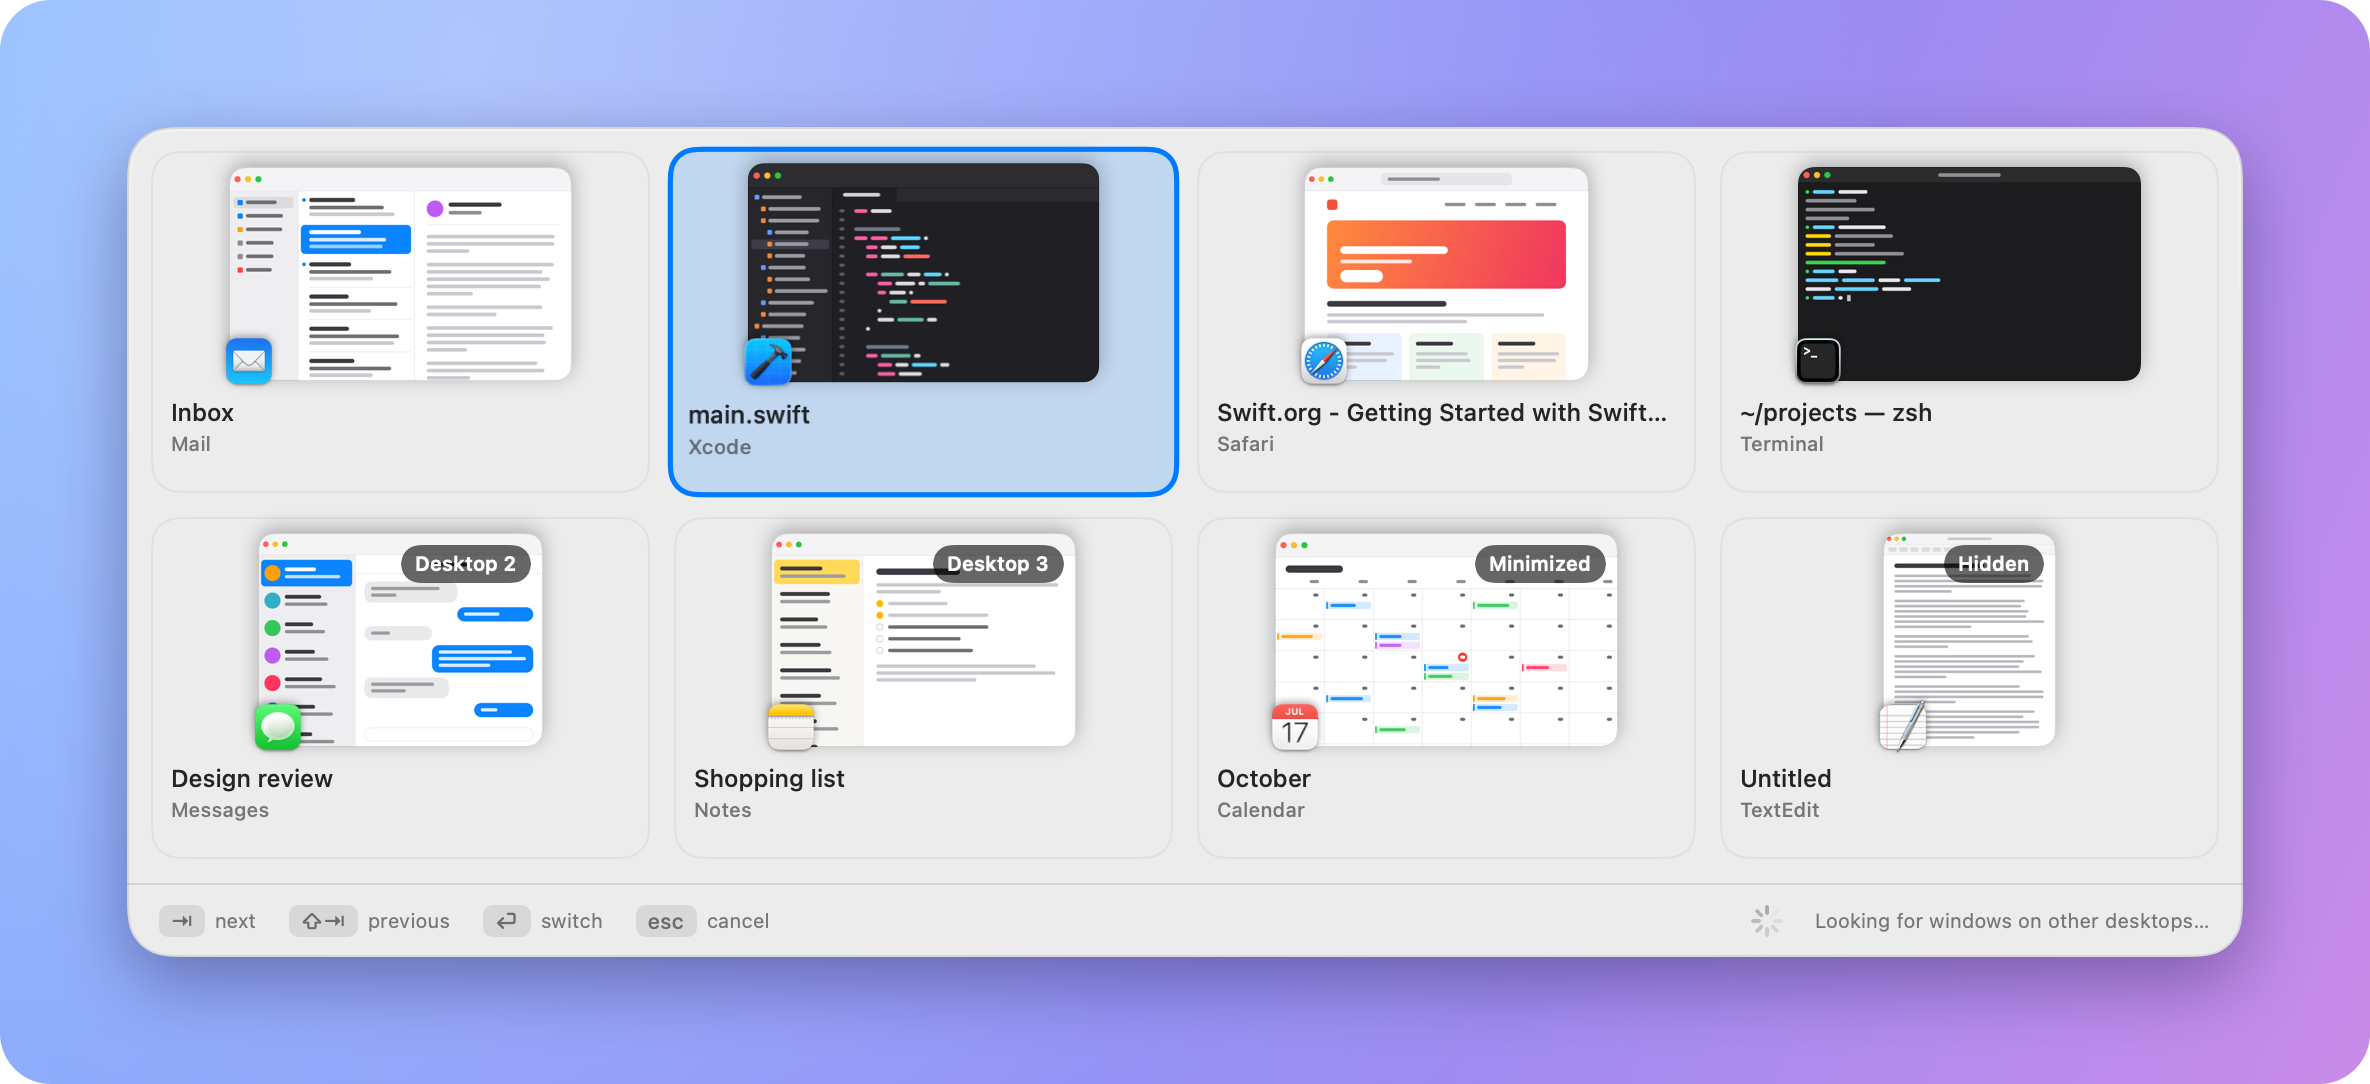
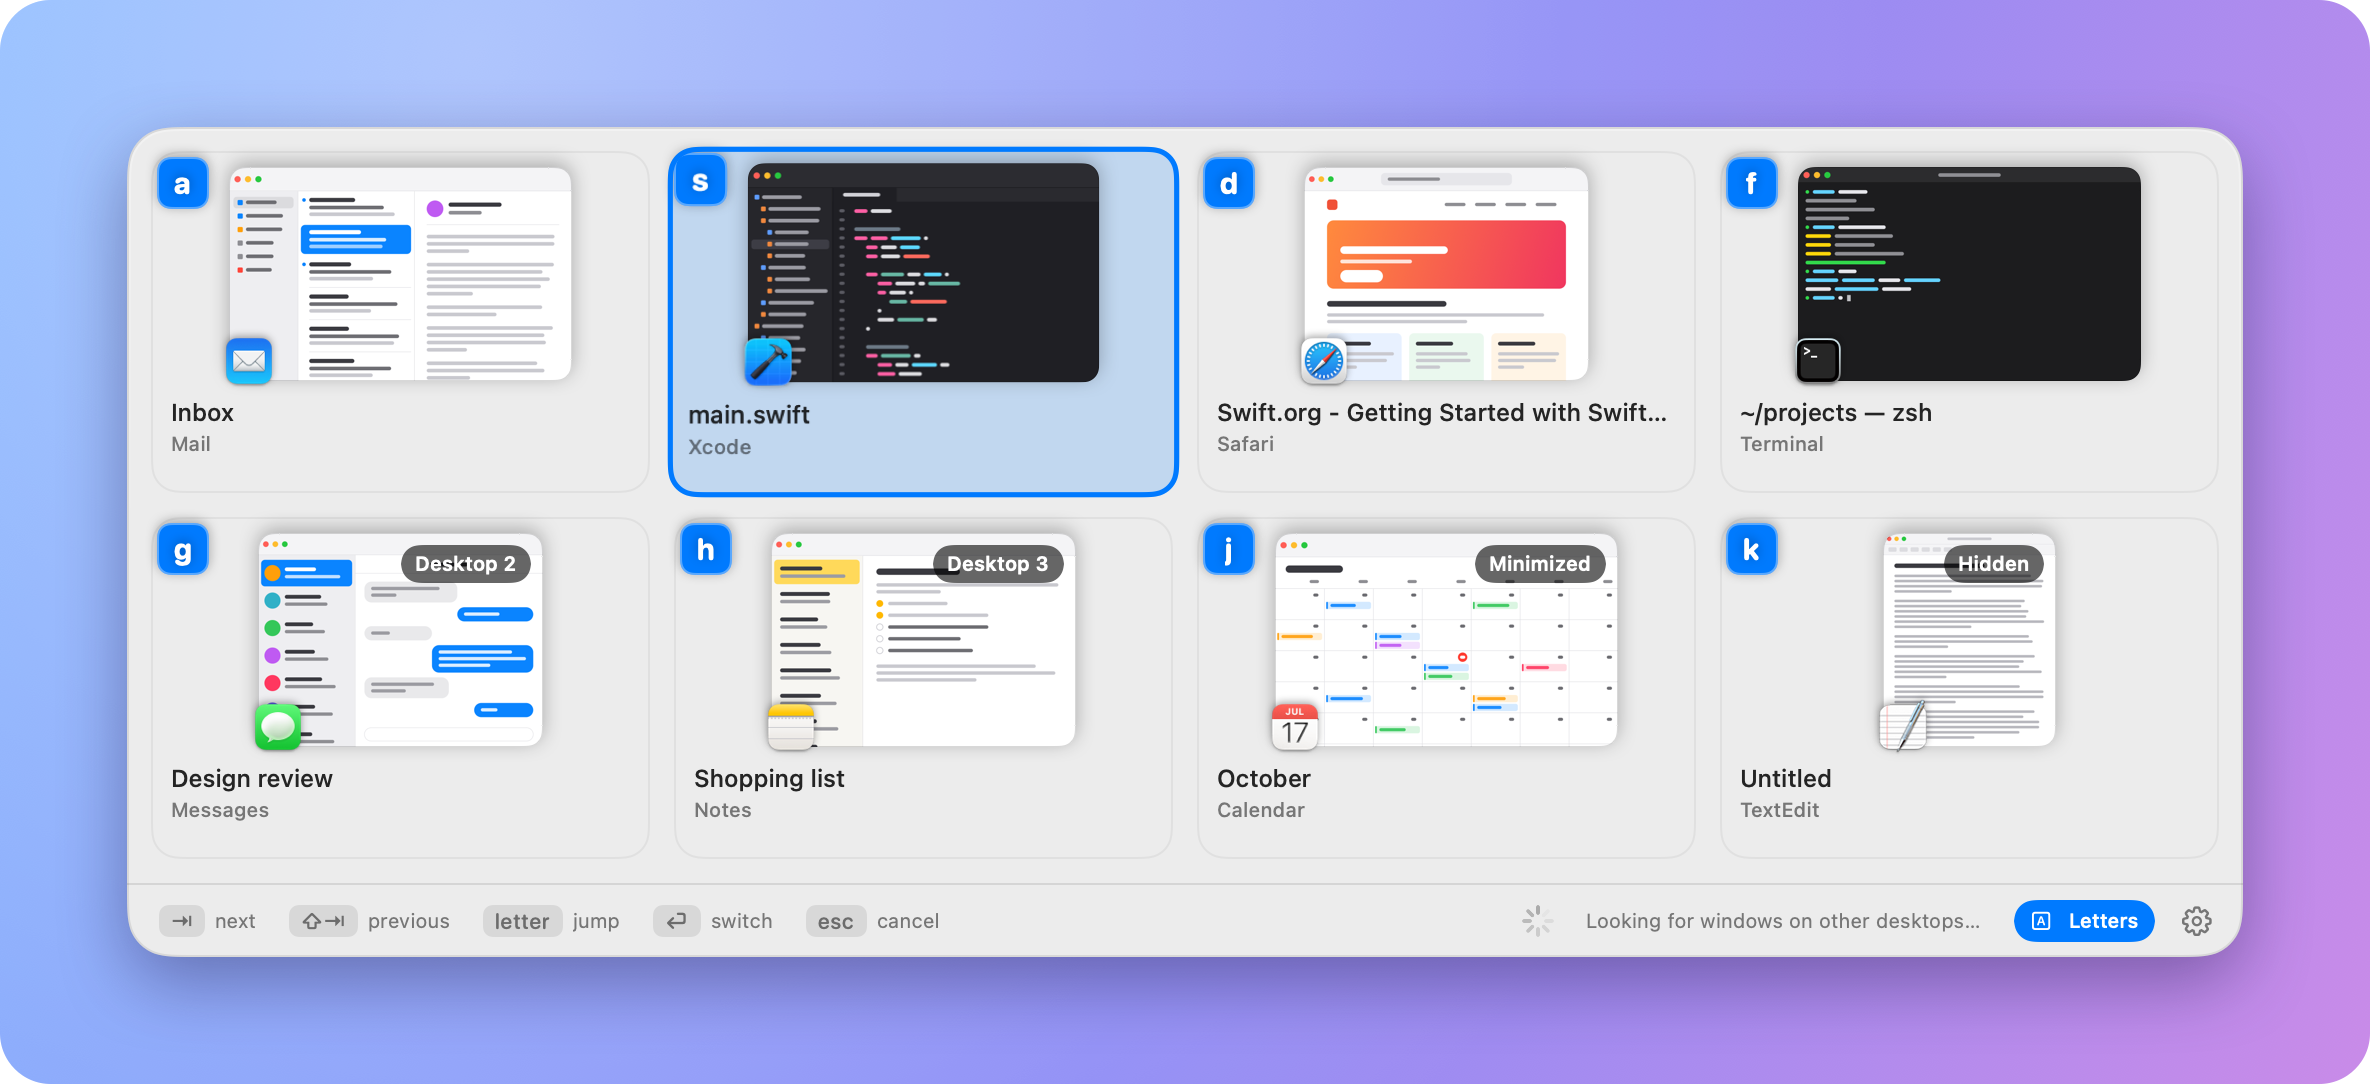
Show Bento in the README and the screenshots
The app is now called Bento and the cask is bento. The screenshots show
the new name, the new icon, and Letters on both switchers.

diff --git a/README.md b/README.md
@@ -1,8 +1,9 @@
-# Oh my windows
+# Bento
 
 A macOS menu bar app that saves groups of windows as **workspaces** and brings a whole workspace forward in one
 step: each window goes back to its position and size, and only those windows are raised, even when an app has many
 others open. It also has an AltTab-style **window switcher** (⌥Tab) for jumping to any window on any desktop.
+Up to 0.2.0 it was called Oh my windows. Updating keeps your workspaces, settings and permissions.
 
 ![The quick switcher: workspaces on top, then every open window](screenshots/quick-switcher.png)
 
@@ -11,10 +12,10 @@ This repository holds the releases only.
 ## Install
 
 ```sh
-brew install --cask tuanchauict/tap/oh-my-windows
+brew install --cask tuanchauict/tap/bento
 ```
 
-Or download the zip from [Releases](../../releases), unzip it and move **Oh my windows.app** to Applications.
+Or download the zip from [Releases](../../releases), unzip it and move **Bento.app** to Applications.
 Needs macOS 14 or later. Builds are signed and notarized, and run on Apple silicon and Intel.
 
 ## Permissions
@@ -35,8 +36,8 @@ Hold ⌥ and press Tab for the window switcher, Tab again to move on, and let go
 window. It lists the windows of every desktop, most recently used first, and marks the ones on another desktop,
 minimized or hidden.
 
-Turn on **Vim mode** in the General settings and every card gets a letter: type it to switch, like Vimium's link
-hints. The quick switcher then opens on the letters, with / to search.
+Click **Letters** on either switcher and every card gets a letter: type it to switch. The quick switcher then opens
+on the letters, with / to search. The gear on the switchers opens their settings.
 
 ![The window switcher](screenshots/window-switcher.png)
 
@@ -49,6 +50,6 @@ private macOS calls as AltTab and yabai do.
 ## Update and uninstall
 
 ```sh
-brew upgrade --cask oh-my-windows
-brew uninstall --cask oh-my-windows          # add --zap to also remove saved workspaces and caches
+brew upgrade --cask bento
+brew uninstall --cask bento    # add --zap to also remove saved workspaces and caches
 ```
